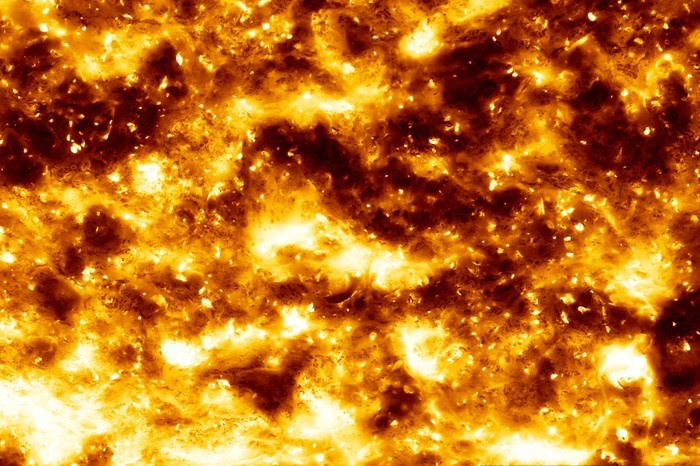
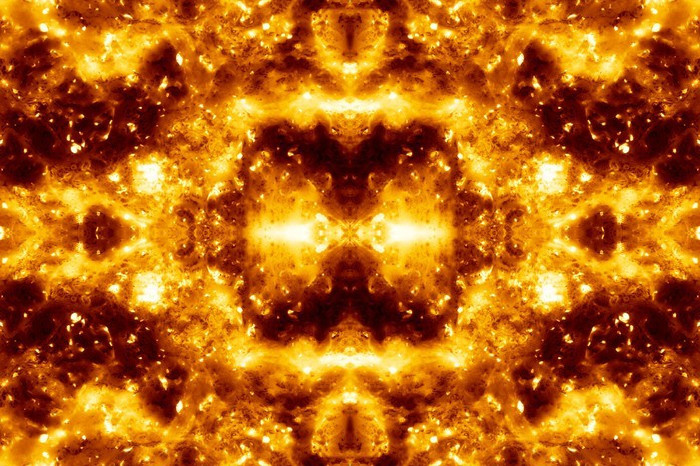
Progress on textures (fixed explosion also and space textures also)

diff --git a/TP1/Primitives/MyCylinder.js b/TP1/Primitives/MyCylinder.js
@@ -9,45 +9,45 @@
  * @param slices - parts per section
  */
 class MyCylinder extends CGFobject {
-	constructor(scene, height, topR, bottomR, stacks, slices) {
-        super(scene);
-        
-        this.height = height;
-        this.topR = topR;
-        this.bottomR = bottomR;
+        constructor(scene, height, topR, bottomR, stacks, slices) {
+                super(scene);
 
-        this.body = new CylinderBody(scene, height, topR, bottomR, stacks, slices);
-        this.topLid = new CylinderLid(scene, slices);
-        this.bottomLid = new CylinderLid(scene, slices);
+                this.height = height;
+                this.topR = topR;
+                this.bottomR = bottomR;
 
-	}
-	
-	display(){
-        this.scene.pushMatrix();
-        this.body.display();
-        this.scene.popMatrix();
+                this.body = new CylinderBody(scene, height, topR, bottomR, stacks, slices);
+                this.topLid = new CylinderLid(scene, slices);
+                this.bottomLid = new CylinderLid(scene, slices);
 
-        this.scene.pushMatrix();
-        this.scene.translate(0, 0, this.height);
-        this.scene.scale(this.topR, this.topR, 0);
-        this.topLid.display();
-        this.scene.popMatrix();
+        }
 
-        this.scene.pushMatrix();
-        this.scene.scale(this.bottomR, this.bottomR, 0);
-        this.scene.rotate(Math.PI, 1, 0, 0);
-        this.bottomLid.display();
-        this.scene.popMatrix();
-    }
+        display() {
+                this.scene.pushMatrix();
+                this.body.display();
+                this.scene.popMatrix();
 
-	/**
-	 * @method updateTexCoords
-	 * Updates the list of texture coordinates of the rectangle
-	 * @param {Array} coords - Array of texture coordinates
-	 */
-	updateTexCoords(coords) {
-		this.texCoords = [...coords];
-		this.updateTexCoordsGLBuffers();
-	}
+                this.scene.pushMatrix();
+                this.scene.translate(0, 0, this.height);
+                this.scene.scale(this.topR, this.topR, 0);
+                this.topLid.display();
+                this.scene.popMatrix();
+
+                this.scene.pushMatrix();
+                this.scene.scale(this.bottomR, this.bottomR, 0);
+                this.scene.rotate(Math.PI, 1, 0, 0);
+                this.bottomLid.display();
+                this.scene.popMatrix();
+        }
+
+        /**
+         * @method updateTexCoords
+         * Updates the list of texture coordinates of the rectangle
+         * @param {Array} coords - Array of texture coordinates
+         */
+        updateTexCoords(afs, aft) {
+
+                this.updateTexCoordsGLBuffers();
+        }
 }
 

diff --git a/TP1/Primitives/MyTriangle.js b/TP1/Primitives/MyTriangle.js
@@ -78,8 +78,28 @@ class MyTriangle extends CGFobject {
 	 * Updates the list of texture coordinates of the rectangle
 	 * @param {Array} coords - Array of texture coordinates
 	 */
-	updateTexCoords(coords) {
-		this.texCoords = [...coords];
+	updateTexCoords(afs, aft) {
+		//		v3
+		//	  c    b
+		//   v1	 a v2
+
+		// let distA = Math.sqrt(Math.pow(this.v2[0] - this.v1[0], 2) + Math.pow(this.v2[1] - this.v1[1], 2) + Math.pow(this.v2[2] - this.v1[2], 2));
+		// let distB = Math.sqrt(Math.pow(this.v3[0] - this.v2[0], 2) + Math.pow(this.v3[1] - this.v2[1], 2) + Math.pow(this.v3[2] - this.v2[2], 2));
+		// let distC = Math.sqrt(Math.pow(this.v1[0] - this.v3[0], 2) + Math.pow(this.v1[1] - this.v3[1], 2) + Math.pow(this.v1[2] - this.v3[2], 2));
+
+		// let cosAlpha = (Math.pow(distA, 2) - Math.pow(distB, 2) + Math.pow(distC, 2)) / (2 * distA * distC);
+		// let sinAlpha = Math.sqrt(1 - Math.pow(cosAlpha, 2));
+		// let alpha = Math.acos(cosAlpha);
+
+		// let T3x = distC * cosAlpha / afs;
+		// let T3y = distC * sinAlpha / aft;
+	
+		// this.texCoords = [
+		// 	0, 0,
+		// 	alpha / afs, 0,
+		// 	T3x, T3y
+		// ];
+
 		this.updateTexCoordsGLBuffers();
 	}
 }

diff --git a/TP1/Primitives/HalfSphere.js b/TP1/Primitives/HalfSphere.js
@@ -23,11 +23,11 @@ class HalfSphere extends CGFobject {
         let theta = 2 * Math.PI / this.slices;
         let fi = 0.5 * Math.PI / this.stacks;
 
-        for (let i = 0; i <= this.stacks; i++) {
-            for (let j = 0; j <= this.slices; j++) {
-                this.vertices.push(Math.cos(theta * j) * Math.cos(fi * i), Math.sin(theta * j) * Math.cos(fi * i), Math.sin(fi * i));
-                this.normals.push(Math.cos(theta * j) * Math.cos(fi * i), Math.sin(theta * j) * Math.cos(fi * i), Math.sin(fi * i));
-                this.texCoords.push(i * 1 / this.slices, j * 1 / this.stacks);
+        for (let j = 0; j <= this.stacks; j++) {
+            for (let i = 0; i <= this.slices; i++) {
+                this.vertices.push(Math.cos(theta * i) * Math.cos(fi * j), Math.sin(theta * i) * Math.cos(fi * j), Math.sin(fi * j));
+                this.normals.push(Math.cos(theta * i) * Math.cos(fi * j), Math.sin(theta * i) * Math.cos(fi * j), Math.sin(fi * j));
+                this.texCoords.push(j / this.stacks, i / this.slices);
             }
         }
 

diff --git a/TP1/Primitives/MyRectangle.js b/TP1/Primitives/MyRectangle.js
@@ -65,8 +65,19 @@ class MyRectangle extends CGFobject {
 	 * Updates the list of texture coordinates of the rectangle
 	 * @param {Array} coords - Array of texture coordinates
 	 */
-	updateTexCoords(coords) {
-		this.texCoords = [...coords];
+	updateTexCoords(afs, aft) {
+		// var minS = 0;
+		// var minT = 0;
+		// var maxS = (this.x2 - this.x1) / afs;
+		// var maxT = (this.y1 - this.y2) / aft;
+
+		// this.texCoords = [
+		// 	minS, maxT,
+		// 	maxS, maxT,
+		// 	minS, minT,
+		// 	maxS, minT
+		// ];
+
 		this.updateTexCoordsGLBuffers();
 	}
 }

diff --git a/TP1/MySceneGraph.js b/TP1/MySceneGraph.js
@@ -1026,7 +1026,7 @@ class MySceneGraph {
 
             // Texture
             if (this.textures[topofTexStack] != null) {
-                //nodeToDisplay.leaves[leaf].aPrimitive.updateTexCoords(nodeToDisplay.afs, nodeToDisplay.aft);
+                nodeToDisplay.leaves[leaf].aPrimitive.updateTexCoords(nodeToDisplay.afs, nodeToDisplay.aft);
                 this.textures[topofTexStack].bind();
             }
 

diff --git a/TP1/Primitives/MyTorus.js b/TP1/Primitives/MyTorus.js
@@ -29,4 +29,14 @@ class MyTorus extends CGFobject
             this.half2.display();
         this.scene.popMatrix();
     };
+
+    /**
+	 * @method updateTexCoords
+	 * Updates the list of texture coordinates of the rectangle
+	 * @param {Array} coords - Array of texture coordinates
+	 */
+	updateTexCoords(afs, aft) {
+
+		this.updateTexCoordsGLBuffers();
+	}
 };

diff --git a/TP1/Primitives/MySphere.js b/TP1/Primitives/MySphere.js
@@ -35,8 +35,7 @@ class MySphere extends CGFobject {
      * Updates the list of texture coordinates of the rectangle
      * @param {Array} coords - Array of texture coordinates
      */
-    updateTexCoords(coords) {
-        this.texCoords = [...coords];
+    updateTexCoords(afs, aft) {
         this.updateTexCoordsGLBuffers();
     }
 }
